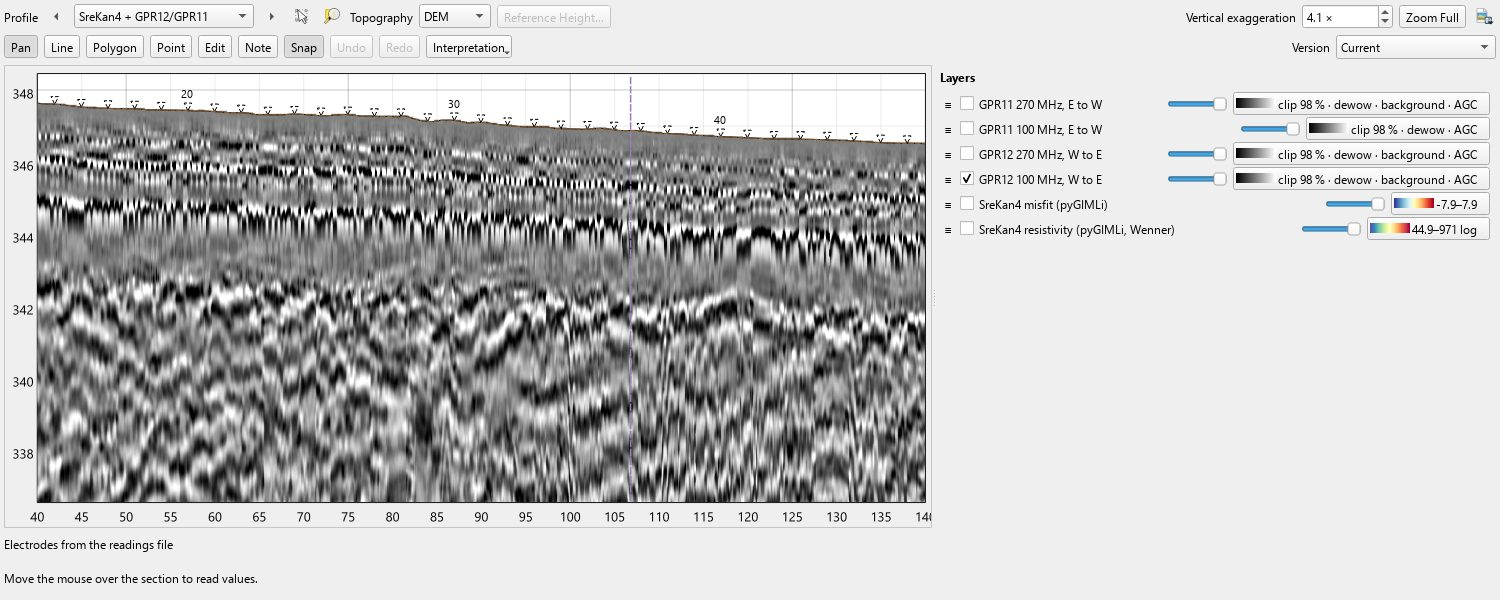
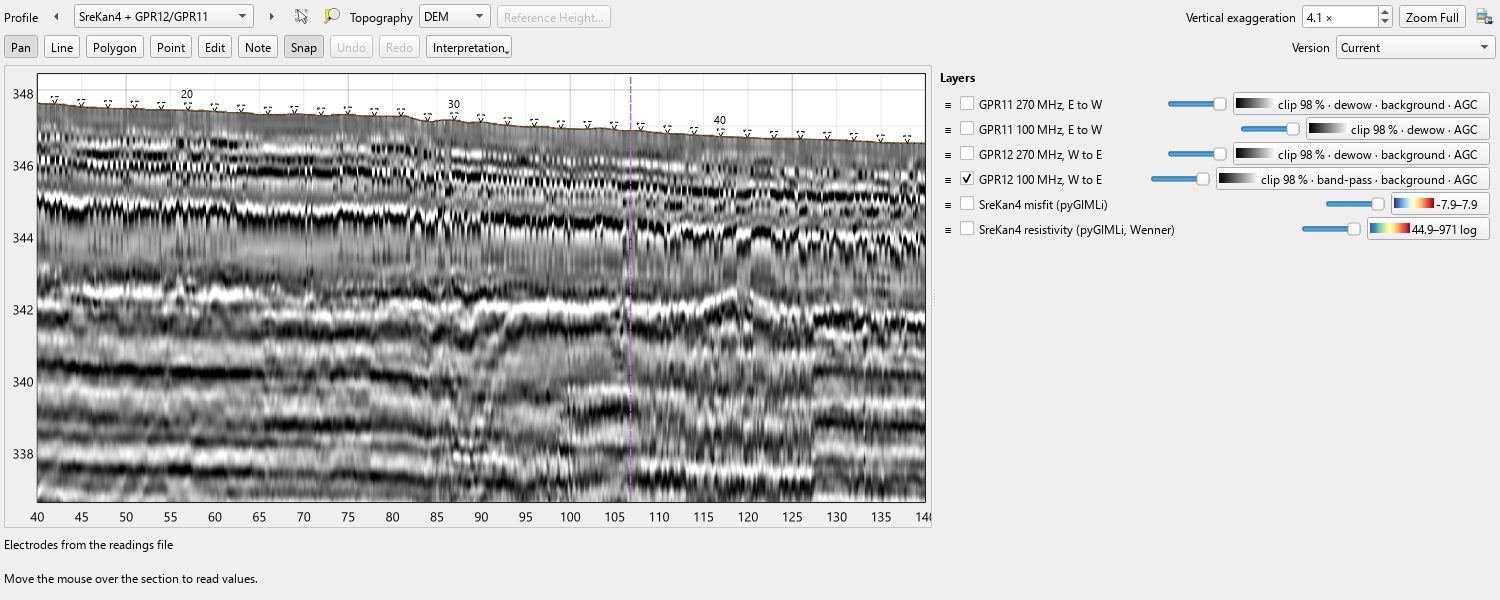
docs: the radar look filters around the antenna frequency
The GPR how-to's Display table gains the band-pass and "Show down to";
the section on the background is rewritten for the new look: what the
band-pass removes, the whole line's background, when a moving window
helps and what each costs. The before/after pictures now show a 100 MHz
line as recorded with AGC only and with the new look; the other
radargram pictures are rendered again. Troubleshooting covers flat bands
or a checkerboard, ringing that changes along the line, and a radargram
drawn far deeper than the radar reached; the reflection sections page
names the band-pass (Hz) and the depth limit.

Changed region(s): [[0.0, 0.18, 0.6133, 0.84], [0.7973, 0.27, 0.92, 0.33]]

diff --git a/scripts/render_gpr_pictures.py b/scripts/render_gpr_pictures.py
@@ -17,10 +17,10 @@ project is never written. Writes to ``out_dir`` (default docs/images/howto):
 - ``gpr-section.jpg``: radar over resistivity on SreKan4, the top 8 m;
 - ``gpr-add-data.png``: Add Data with a 270 MHz file on SreKan4, its radar parts numbered in a
   gutter as in render_doc_images.py (``ADD_DATA_PARTS``);
-- ``gpr-display.png``: the radargram's Display… dialog, its filters numbered
-  (``DISPLAY_PARTS``);
-- ``gpr-look-before.jpg`` / ``gpr-look-after.jpg``: one radargram without and with the
-  background removal of the default look;
+- ``gpr-display.png``: the radargram's Display… dialog, the depth shown and its filters
+  numbered (``DISPLAY_PARTS``);
+- ``gpr-look-before.jpg`` / ``gpr-look-after.jpg``: one 100 MHz radargram as recorded with
+  AGC only, and with the default look (band-pass, background, AGC);
 - ``gpr-antenna-100.jpg`` / ``gpr-antenna-270.jpg``: the 100 and 270 MHz files of one line.
 
 Data: Grützner et al. 2020, PANGAEA, CC BY 4.0. Terrain: ARSO (Slovenian Environment Agency).
@@ -49,7 +49,7 @@ JPEG_QUALITY = 82
 ERT_LINE = "SreKan4"
 ERT = "SreKan4 resistivity"
 GPR_100, GPR_270 = "GPR12 100 MHz", "GPR12 270 MHz"
-LOOK_LINE, LOOK_LAYER = "GPR9", "GPR9 270 MHz"
+LOOK_LINE, LOOK_LAYER = "GPR9", "GPR9 100 MHz"
 #: the file Add Data is shown with, relative to the project folder, and the velocity typed
 ADD_FILE = "data/gpr/270MHz/270_AAA_____034.DZT"
 ADD_NAME = "GPR12 270 MHz, W to E"
@@ -65,7 +65,7 @@ DISPLAY_WIDTH = 520
 ADD_DATA_PARTS = (("box", "velocity"), ("box", "time_zero"), ("box", "zero"),
                   ("box", "smoothing"), ("box", "position"), ("box", "span"),
                   ("dialog", "placement"), ("dialog", "status_block"))
-DISPLAY_PARTS = ("dewow_check", "background_check", "agc_check")
+DISPLAY_PARTS = ("depth_edit", "dewow_check", "band_check", "background_check", "agc_check")
 
 
 def tops(dialog, widgets) -> list[int]:
@@ -194,6 +194,7 @@ def render(folder: Path, out_dir: Path) -> None:
     from qgis.core import QgsApplication, QgsProject
     from render_demo_section import FakeIface
 
+    from groundwork_geophysics.core.trace_section import DisplayGain
     from groundwork_geophysics.plugin import WorkbenchPlugin
 
     app = QgsApplication.instance()
@@ -232,7 +233,7 @@ def render(folder: Path, out_dir: Path) -> None:
 
         look = Views(app, plugin, profile(LOOK_LINE))
         after = default_look(look.layer(LOOK_LAYER))
-        look.show({LOOK_LAYER: {"gain": replace(after, background="", background_traces=0)}})
+        look.show({LOOK_LAYER: {"gain": DisplayGain(agc_window=after.agc_window)}})
         look.save(out_dir / "gpr-look-before.jpg", LOOK_VIEW)
         look.show({LOOK_LAYER: {"gain": after}})
         look.save(out_dir / "gpr-look-after.jpg", LOOK_VIEW)

diff --git a/docs/user/howto/gpr.md b/docs/user/howto/gpr.md
@@ -147,41 +147,57 @@ the file by its start and leave the tick off.
 Right-click the radargram in the panel's **Layers** list → **Display…**. A new radargram
 starts with a look chosen on real lines, so that reflections show without opening this dialog.
 
-![The Display dialog of a radargram, the Amplitudes group with Remove drift (dewow), Remove background over a moving window of 10 m, and Balance along the trace (AGC); the three are numbered 1 to 3](../../images/howto/gpr-display.png)
+![The Display dialog of a 270 MHz radargram: Show down to (m) empty for the whole record, and the Amplitudes group with Remove drift (dewow) off, Band-pass from 135 to 540 MHz, Remove background over the whole line, and Balance along the trace (AGC); the five are numbered 1 to 5](../../images/howto/gpr-display.png)
 
 | | Option | What it does | At the start |
 |---|---|---|---|
-| ① | Remove drift (dewow) | Takes away the slow drift of each trace, a running mean over the window | On, over two periods of the antenna's frequency |
-| ② | Remove background | Takes away what is the same in every trace: the antenna's ringing, the direct wave. **Whole line** subtracts the mean trace of the line, **Moving window** the mean of the traces around each one, typed in metres | On, a moving window of 10 m |
-| ③ | Balance along the trace (AGC) | Evens out the amplitudes down each trace, so weak deep reflections show | On, over five periods of the antenna's frequency |
+| ① | Show down to (m) | Draws the radargram only down to this depth below the ground. Empty: the whole record. Zoom Full, plates and the 3D view fit the part shown | Empty: the whole record |
+| ② | Remove drift (dewow) | Takes away the slow drift of each trace, a running mean over the window | Off when the antenna is known (the band-pass does it), else on |
+| ③ | Band-pass | Keeps the frequencies from **From** to **To** (MHz) and takes away the noise far below or above the antenna's band | On, from half to twice the antenna's frequency |
+| ④ | Remove background | Takes away what is the same in every trace: the antenna's ringing, the direct wave. **Whole line** subtracts the mean trace of the line, **Moving window** the mean of the traces around each one, typed in metres | On, the whole line |
+| ⑤ | Balance along the trace (AGC) | Evens out the amplitudes down each trace, so weak deep reflections show | On, over five periods of the antenna's frequency |
 
 *Data: Grützner et al. 2020, PANGAEA, CC BY 4.0.*
 
 The colour ramp, **Clip at**, **Gain with time**, **Balance traces against each other**,
 **Swap polarity** and **Paint muted zones** work as for a
 [reflection section](reflection-sections.md#display-options). The options change the picture
-only; the readout keeps showing the file's amplitudes.
+only; the readout keeps showing the file's amplitudes. Below the depth in ① the readout shows
+nothing for the radargram; the data are not cut. **Apply Style to All Sections** in the same
+menu gives the other radargrams the same look; the band-pass goes along in MHz, so give
+radargrams of another antenna their own.
 
-### Why the background is removed over 10 m
+### Why the look filters around the antenna's frequency
 
-Most antennas ring: the same wiggle in every trace, which shows as flat bands parallel to the
-ground, often down to the end of the record. They look like layers and are not.
+A radar antenna sends a pulse around its centre frequency: about 100 MHz for a 100 MHz
+antenna. The files often hold more than that. Slow swings far below the antenna's band,
+from the instrument and from cables, can be stronger than the reflections. AGC lifts
+whatever is in the trace, so these swings turn into broad flat bands, or a checkerboard where
+they switch on and off along the line. They look like layers and are not.
 
-![GPR9 at 270 MHz with dewow and AGC only: strong bands parallel to the ground in the top metre, all along the line](../../images/howto/gpr-look-before.jpg)
+![GPR9 at 100 MHz with AGC only: broad dark and light bands parallel to the ground hide the reflections](../../images/howto/gpr-look-before.jpg)
 
-![The same view with the background removed over a moving window of 10 m: the bands are gone, the dipping reflectors stay](../../images/howto/gpr-look-after.jpg)
+![The same view with the look a new radargram starts with: band-pass, background over the whole line and AGC; reflectors and their dips show](../../images/howto/gpr-look-after.jpg)
 
-*Line GPR9, 270 MHz, the upper 6 to 8 m: above with dewow and AGC only, below with the
-background removed over 10 m as well. Data: Grützner et al. 2020, PANGAEA, CC BY 4.0.*
+*Line GPR9, 100 MHz, the upper 6 to 8 m: above as recorded with AGC only, below with the look
+a new radargram starts with. Data: Grützner et al. 2020, PANGAEA, CC BY 4.0.*
 
-The ringing of a real antenna changes along the line, in stretches of some metres. A moving
-window of 10 m follows it and removes it; the mean of the whole line does not. Dipping
-reflectors and the hyperbolas of small objects stay, because they differ from trace to trace.
+- **The band-pass** keeps half to twice the antenna's frequency and takes everything else
+  away: the slow swings, and the drift dewow was there for. The reflections lie inside that
+  band and stay. A running-mean dewow alone leaves a quarter or so of the swings in a 100 MHz
+  file. Cost: an antenna with a far wider band loses some of it; type other corners then.
+- **The background over the whole line** takes away the ringing that is the same along the
+  line, and keeps flat reflectors, however long they run. Cost: ringing that changes along
+  the line stays, mostly deep down below the last reflections.
+- **A moving window** (**Remove background** → **Moving window**, typed in metres) follows
+  ringing that changes along the line, in stretches of some metres, and removes it. Cost:
+  anything flat that runs much longer than the window fades too, such as a layer or a water
+  table tens of metres long. Try 10 m when deep flat bands start and stop along the line.
 
-The cost: anything flat that runs much longer than 10 m is removed too. A flat layer, or a
-water table, tens of metres long fades. When you look for one, choose **Whole line** in
-**Remove background**, or untick it: one click in **Display…**. **Apply Style to All Sections**
-in the same menu gives the other radargrams the same look.
+On the lines of this page the band-pass and the whole line's background gave clean reflectors
+at 100 and 270 MHz, at 400 MHz and on a 250 MHz pulseEKKO line; the moving window of 10 m broke
+long flat reflectors into dashes. Below the last reflection the record holds only noise, which
+AGC lifts to full strength; **Show down to** (①) leaves it out of the picture.
 
 ## Two antennas on one line
 
@@ -232,8 +248,8 @@ Good to know:
 - Not read: GPS files beside GSSI files (`.DZG`), the GPS fields of pulseEKKO traces, marks,
   and other makers' formats (MALÅ `.rd3`/`.rd7`, IDS, ImpulseRadar, 3D-Radar). Export these as
   SEG-Y to load them as a reflection section.
-- No processing: no migration, no frequency filters, no velocity analysis. The display options
-  change only the picture.
+- No processing: no migration, no velocity analysis. The display options, the band-pass
+  among them, change only the picture.
 - One velocity per radargram.
 
 The readers were checked against 150 real GSSI files (16-bit, 100, 270 and 400 MHz) and four

diff --git a/docs/user/troubleshooting.md b/docs/user/troubleshooting.md
@@ -73,8 +73,11 @@ so is everything above the ground line in a section corrected to the ground. To 
 | "Enter the velocity or the dielectric constant." | The file states no velocity, and Groundwork assumes none | Type one in Add Data; see [where a value comes from](howto/gpr.md#velocity-and-dielectric-constant) |
 | Reflectors far too shallow or too deep against a borehole | The velocity does not fit. A GSSI header's dielectric constant is an instrument setting, not a measurement | Change the velocity in [Dataset info](howto/dataset-info.md): every depth moves by the same factor |
 | The whole radargram a little too high or too low | Time zero is off | **Time zero (ns)** in Dataset info: later lifts the picture, earlier lowers it |
-| Flat bands parallel to the ground all along the line | The antenna's ringing | Tick **Remove background** in **Display…**; a moving window of 10 m is the start for a new radargram |
-| A long flat layer fades | The background removal over 10 m takes away what runs flat much longer than that | **Remove background** → **Whole line**, or untick it ([why](howto/gpr.md#why-the-background-is-removed-over-10-m)) |
+| Flat bands or a checkerboard down the radargram | Noise far below the antenna's band, lifted by AGC; a radargram that keeps a look from before the band-pass shows it | Tick **Band-pass** in **Display…**: ticking it proposes half to twice the antenna's frequency ([why](howto/gpr.md#why-the-look-filters-around-the-antennas-frequency)) |
+| Flat bands parallel to the ground all along the line | The antenna's ringing | Tick **Remove background** in **Display…**, **Whole line** |
+| Deep flat bands that start and stop along the line | Ringing that changes along the line | **Remove background** → **Moving window**, for example 10 m; long flat layers fade with it |
+| A long flat layer fades | The background is removed over a moving window that is shorter than the layer | **Remove background** → **Whole line** ([why](howto/gpr.md#why-the-look-filters-around-the-antennas-frequency)) |
+| The radargram is a thin strip, or shows noise far below the reflections | The whole record is drawn, often much deeper than the radar reached | **Show down to (m)** in **Display…**, for example 8 m; empty again shows the whole record |
 | The radargram is longer or shorter than the line | The wheel measures along the ground; the line is straight between its ends | Usually right as it is. Fit it with **From** and **To** only when both points are better than the wheel ([fitting](howto/gpr.md#fitting-a-file-between-two-points)) |
 | Vertical seams in the radargram | Steps of the elevation model under it | **Smooth the ground over (m)** in Dataset info, for example 2 m |
 | "…holds 2 channels; Groundwork reads single-channel files." | A GSSI file of a multi-channel system | Not read yet. One channel exported as SEG-Y from the radar software loads as a reflection section |

diff --git a/docs/user/howto/reflection-sections.md b/docs/user/howto/reflection-sections.md
@@ -166,6 +166,14 @@ Right-click the section in the panel's **Layers** list → **Display…**.
 | ③ | Amplitudes | **Balance along the trace (AGC)** with its window, **Gain with time** with its power, **Balance traces against each other** and **Swap polarity**: for sections delivered with true amplitudes, which fade with time. |
 | ④ | Paint muted zones | Samples that are exactly zero at the top or bottom of a trace are left transparent unless this is ticked, so they do not cover what lies behind. |
 
+Also in the dialog:
+
+- **Show down to (m)**: the section is drawn only down to this depth below time zero (or
+  depth zero); empty shows the whole record. Zoom Full, plates and the 3D view fit the part
+  shown.
+- **Band-pass**: keeps the frequencies from **From** to **To** (Hz) of a time section and takes
+  away the rest, such as a slow drift or high noise.
+
 These options change the picture only. The data stay as they are, and the readout under the
 mouse shows the file's amplitude with the trace number, the time and the depth below time
 zero (*102.4 m below time zero*; *below depth zero* for a depth section).
